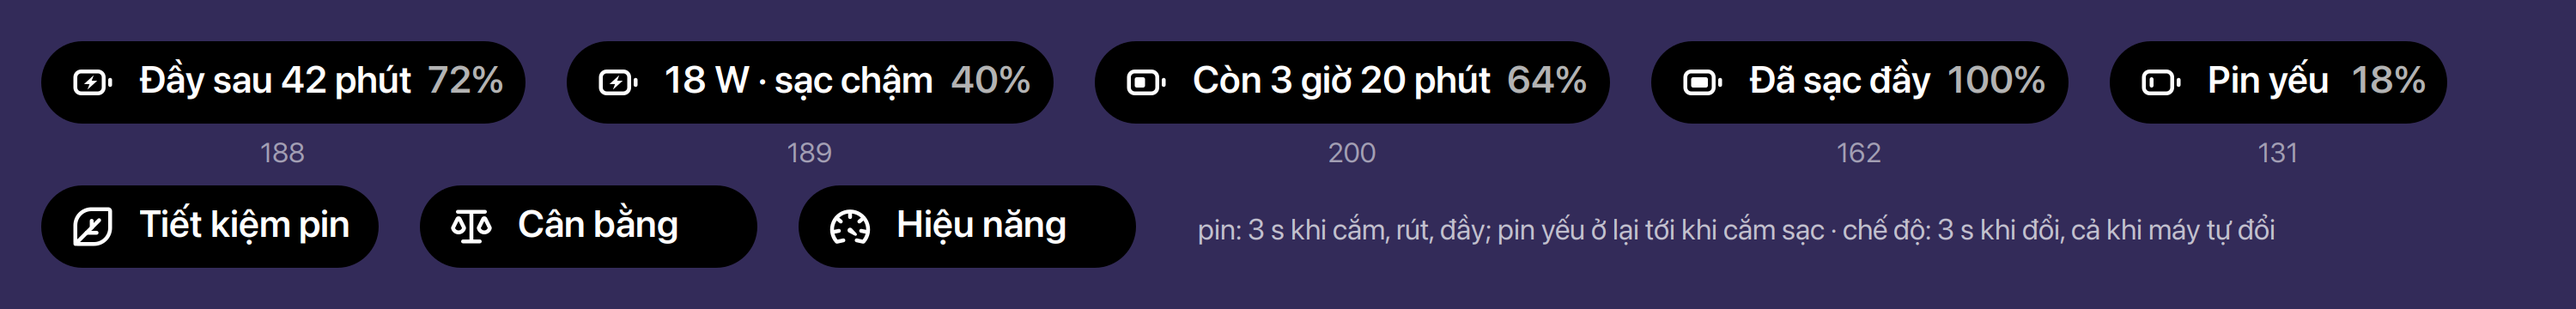
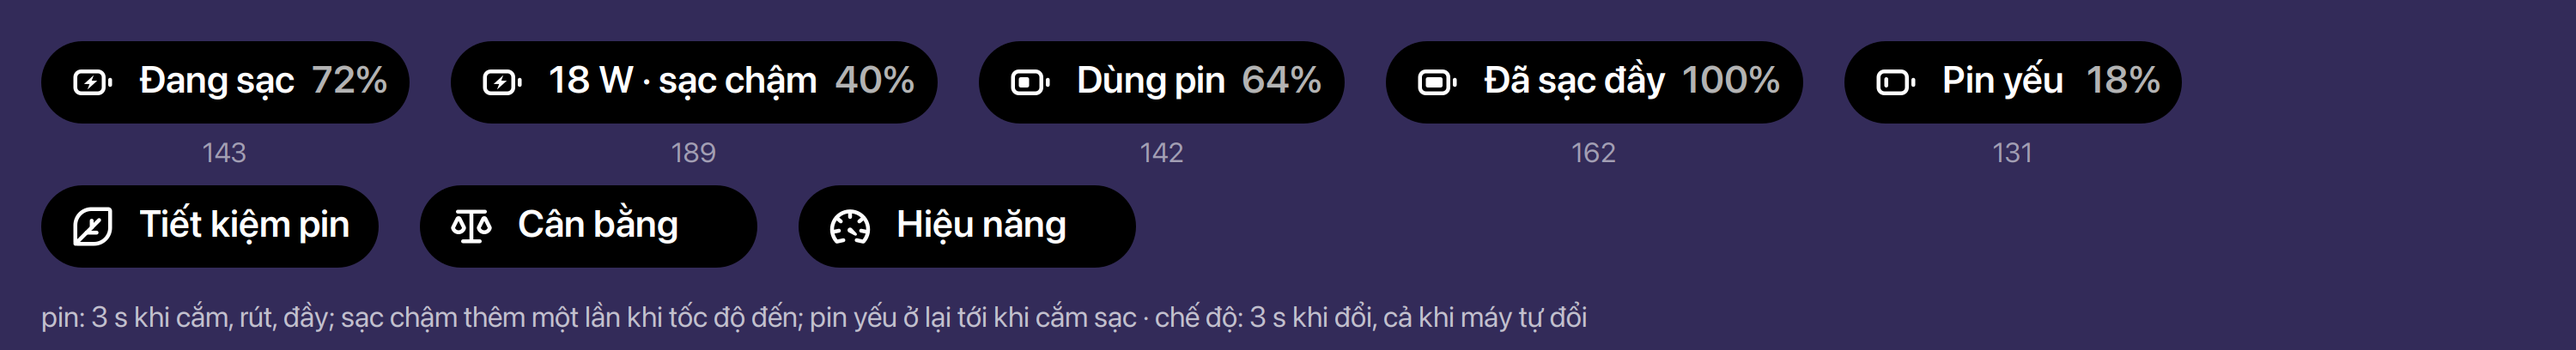
fix(power): a slow charger flashes when UPower's rate comes, not at the plug in (#270)
UPower has no rate, so no estimate, for 10–15 s after a plug in or unplug
(up-device-battery.c: a line-power change is a discontinuity, the rate held at 0
for 10 s, then polled every 5 s; batteries without a power reading need 15 s of
data). The 3 s flash was gone by then, so "Full in 42 min" and "18 W · slow
charger" never showed. Now the plug in says "Charging", the unplug "On battery",
and a slow charger flashes once more when its rate comes within 30 s
(adapter.js slowLate, SLOW_WINDOW). design/compact and FEATURES updated.

Tests: tests/power.test.js (slowLate window, once per plug in, fast/unknown/
above 80 %/not charging).

Refs: FEATURES.md M4 "Power"

diff --git a/src/buoy@murilegus/lib/modules/power/source.js b/src/buoy@murilegus/lib/modules/power/source.js
@@ -1,9 +1,10 @@
+import GLib from 'gi://GLib';
 import Shell from 'gi://Shell';
 import * as Main from 'resource:///org/gnome/shell/ui/main.js';
 
 import {Source} from '../../kit/services/source.js';
 import {batteryToggle, profilesOf, profilesToggle, setProfile, stopWaiting, takeSilent, whenQuickSettings} from '../../kit/services/power.js';
-import {STATE, powerEvents, readBattery} from './adapter.js';
+import {STATE, powerEvents, readBattery, slow, slowLate} from './adapter.js';
 
 const FLASH = 'flash';
 const LOW = 'low';
@@ -35,6 +36,8 @@ export class PowerSource extends Source {
         this._lowLevel = null;      // the low warning shown: 'low' | 'critical' | 'action'
         this._flash = null;         // the last flash: 'charging' | 'battery' | 'full'
         this._profile = undefined;  // the power mode last read (undefined: not read yet)
+        this._plugAt = null;        // when the plug in flashed (µs, monotonic): the slow charger's window
+        this._slowShown = false;    // this plug in's slow charger flashed
         whenQuickSettings(this, () => this._watch());
     }
 
@@ -47,7 +50,8 @@ export class PowerSource extends Source {
         this._toggle = this._proxy = this._modes = null;
         for (const key of [FLASH, LOW, MODE])
             this._stack?.end(this._id(key));
-        this._last = this._lowLevel = this._flash = null;
+        this._last = this._lowLevel = this._flash = this._plugAt = null;
+        this._slowShown = false;
         this._profile = undefined;
         super.disable();
     }
@@ -122,10 +126,21 @@ export class PowerSource extends Source {
         if (flash) {
             this._show(FLASH, {what: flash, ...cur}, {fresh: true});
             this._flash = flash;
+            this._plugAt = flash === 'charging' ? GLib.get_monotonic_time() : null;
+            this._slowShown = flash === 'charging' && slow(cur);    // the rate was there at once
+        } else if (slowLate(cur, this._sincePlug(), this._slowShown)) {
+            // the rate came 10–15 s after the plug in (adapter.js SLOW_WINDOW): the slow
+            // charger flashes once more, or the plug in's flash takes it if still up
+            this._show(FLASH, {what: 'charging', ...cur}, {fresh: !this._stack.has(this._id(FLASH))});
+            this._slowShown = true;
         } else if (this._flash && this._stack.has(this._id(FLASH)) && plugAgain(this._flash, cur)) {
             // the estimate and the rate come a few seconds after the plug: the flash takes them
             this._show(FLASH, {what: this._flash, ...cur});
         }
+    }
+
+    _sincePlug() {
+        return this._plugAt === null ? null : (GLib.get_monotonic_time() - this._plugAt) / 1000;
     }
 
     _id(key) {

diff --git a/src/buoy@murilegus/lib/modules/power/adapter.js b/src/buoy@murilegus/lib/modules/power/adapter.js
@@ -6,8 +6,9 @@ export {STATE, duration, plugged};
 /**
  * power adapter (FEATURES M4 "Power", SPEC §6b item 4; decided 2026-11-14, Ethan): the
  * laptop's battery as GNOME's Quick Settings reads it (UPower's DisplayDevice).
- *   charging  plugged in: 3 s — "Full in 42 min", or "18 W · slow charger"
- *   battery   unplugged: 3 s — "3 h 20 min left"
+ *   charging  plugged in: 3 s — "Charging"; "18 W · slow charger" once more when the rate comes
+ *             (slowLate)
+ *   battery   unplugged: 3 s — "On battery"
  *   full      fully charged while plugged in: 3 s
  *   low       UPower's warning level low / critical / action on battery: stays until plugged
  *             in; it takes the place of GNOME's own "Low Battery" notification
@@ -28,6 +29,16 @@ export const TTL = 3000;
 /** Slow: charging below SLOW_W watts while under SLOW_BELOW % (above it every laptop tapers). */
 export const SLOW_W = 20;
 export const SLOW_BELOW = 80;
+
+/**
+ * UPower has no rate, so no estimate, for 10–15 s after a plug in or unplug
+ * (up-device-battery.c up_device_battery_update_values: a line-power change is a
+ * discontinuity, the rate held at 0 for UP_DAEMON_DISTRUST_RATE_TIMEOUT 10 s, then polled every
+ * UP_DAEMON_ESTIMATE_TIMEOUT 5 s; batteries without a power reading need 15 s of data,
+ * up_device_battery_estimate_power). The 3 s flash is gone by then: a slow charger flashes once
+ * more when its rate comes, within SLOW_WINDOW of the plug in (Ethan, 2026-11-14).
+ */
+export const SLOW_WINDOW = 30000;
 
 // UPower's warning levels (up-types.h UpDeviceLevel); its states are kit/model/power.js STATE
 export const WARNING = Object.freeze({NONE: 1, DISCHARGING: 2, LOW: 3, CRITICAL: 4, ACTION: 5});
@@ -92,6 +103,18 @@ export function powerEvents(prev, cur) {
             flash = 'full';
     }
     return {flash, low};
+}
+
+/**
+ * The slow charger's own flash, when the rate comes after the plug in's (SLOW_WINDOW).
+ *
+ * @param {object} b  readBattery(), now
+ * @param {?number} sincePlug  ms since the plug in's flash; null when not plugged in by a flash
+ * @param {boolean} shown  this plug in's slow flash already shown
+ * @returns {boolean} flash "18 W · slow charger" now
+ */
+export function slowLate(b, sincePlug, shown) {
+    return !shown && sincePlug !== null && sincePlug >= 0 && sincePlug <= SLOW_WINDOW && slow(b);
 }
 
 /**

diff --git a/tests/power.test.js b/tests/power.test.js
@@ -1,6 +1,6 @@
 // Run: gjs -m tests/power.test.js   (pure: the power adapter, FEATURES M4 "Power")
 import adapter, {
-    TTL, SLOW_W, SLOW_BELOW, STATE, WARNING, readBattery, plugged, lowLevel, powerEvents, slow, duration,
+    TTL, SLOW_W, SLOW_BELOW, SLOW_WINDOW, STATE, WARNING, readBattery, plugged, lowLevel, powerEvents, slow, slowLate, duration,
 } from '../src/buoy@murilegus/lib/modules/power/adapter.js';
 import {PRIORITY, validate} from '../src/buoy@murilegus/lib/kit/model/activity.js';
 import {planCompact, planMinimal} from '../src/buoy@murilegus/lib/kit/model/presentation.js';
@@ -148,3 +148,16 @@ const plain = planCompact(validate({id: 'n', kind: 'notification', app: 'x', tex
 eq(['selected' in plain.actions[0], 'tight' in plain.card], [false, false], 'kit: other buttons get no `selected`, other cards are not tight');
 eq(planMinimal(validate({id: 'p', kind: 'power', app: 'system', ...adapter.power({what: 'battery', percentage: 64, timeToEmpty: 12000})})).trailing,
     {type: 'text', text: '64%'}, 'kit: the percentage is drawn as text (a bare string would be an icon\'s name)');
+
+// --- the slow charger's late flash (UPower's rate comes 10–15 s after the plug in) -------
+const SLOWB = B({state: STATE.CHARGING, percentage: 40, rate: 15});
+eq(SLOW_WINDOW, 30000, 'late slow: a window of 30 s after the plug in');
+eq([slowLate(SLOWB, 12000, false), slowLate(SLOWB, SLOW_WINDOW, false), slowLate(SLOWB, 0, false)], [true, true, true],
+    'late slow: the rate came within the window: flash');
+eq([slowLate(SLOWB, SLOW_WINDOW + 1, false), slowLate(SLOWB, null, false), slowLate(SLOWB, -5, false)], [false, false, false],
+    'late slow: past the window, no plug in flash, a clock gone back: no flash');
+eq(slowLate(SLOWB, 12000, true), false, 'late slow: once per plug in');
+eq([slowLate(B({state: STATE.CHARGING, percentage: 40, rate: 45}), 12000, false), slowLate(B({state: STATE.CHARGING, percentage: 40}), 12000, false),
+    slowLate(B({state: STATE.CHARGING, percentage: 85, rate: 15}), 12000, false), slowLate(B({state: STATE.FULL, percentage: 40, rate: 15}), 12000, false)],
+[false, false, false, false], 'late slow: a fast charger, no rate yet, above 80 %, not charging: no flash');
+eq(pill({what: 'charging', state: STATE.CHARGING, percentage: 72}).text, 'Charging', 'plug in: "Charging" while UPower has no estimate yet');

diff --git a/docs/design/home/render/power.js b/docs/design/home/render/power.js
@@ -14,7 +14,7 @@ import {SCALE as SC, C, icon as gicon} from '../../render/lib.js';
 
 const [out, MODE = 'tile'] = ARGV;
 const W1 = C.WHITE, SUB = 9.35, BIG = 16.5, TILE_H = 100;
-const SIZE = {tile: [1040, 140], list: [420, 300], flash: [1000, 120], compact: [700, 180], icons: [960, 104]}[MODE];
+const SIZE = {tile: [1040, 140], list: [420, 300], flash: [1000, 136], compact: [700, 180], icons: [960, 104]}[MODE];
 const [W, H] = SIZE;
 const surf = new cairo.ImageSurface(cairo.Format.ARGB32, W * SC, H * SC), cr = new cairo.Context(surf);
 cr.scale(SC, SC); cr.setSourceRGB(...C.WALL); cr.paint();
@@ -96,13 +96,13 @@ if (MODE === 'tile') {
     icon('arrow-up-right-from-square', AX + AW - 40, ay + 194, 16, W1, C.FG_SUBTLE);
     note('hàng 36 bo 18, cách 4; chọn xong vẫn ở danh sách, ‹ về Home', AX, ay + AH + 8);
 } else if (MODE === 'flash') {
-    const F = [['battery-charging', 'Đầy sau 42 phút', '72%'], ['battery-charging', '18 W · sạc chậm', '40%'],
-        ['battery', 'Còn 3 giờ 20 phút', '64%'], ['battery-full', 'Đã sạc đầy', '100%'], ['battery-low', 'Pin yếu', '18%']];
+    const F = [['battery-charging', 'Đang sạc', '72%'], ['battery-charging', '18 W · sạc chậm', '40%'],
+        ['battery', 'Dùng pin', '64%'], ['battery-full', 'Đã sạc đầy', '100%'], ['battery-low', 'Pin yếu', '18%']];
     let x = 16;
     F.forEach(([ic, t, p]) => { const w = pill(x, 16, ic, t, p); text(`${Math.round(w)}`, x + w / 2, 52, {sz: 8, a: .55, centre: true}); x += w + 16; });
     x = 16;
     ['saver', 'balanced', 'perf'].forEach(m => { const w = pill(x, 72, MODES[m], NAMES[m]); x += w + 16; });
-    note('pin: 3 s khi cắm, rút, đầy; pin yếu ở lại tới khi cắm sạc · chế độ: 3 s khi đổi, cả khi máy tự đổi', x + 8, 82);
+    note('pin: 3 s khi cắm, rút, đầy; sạc chậm thêm một lần khi tốc độ đến; pin yếu ở lại tới khi cắm sạc · chế độ: 3 s khi đổi, cả khi máy tự đổi', 16, 116);
 } else if (MODE === 'compact') {
     const CX = 16, cy = 16, kw = 404;
     fill([0, 0, 0, 1], CX, cy, kw, 104, 28);

diff --git a/docs/design/compact/index.vi.md b/docs/design/compact/index.vi.md
@@ -151,11 +151,14 @@ trắng như bản vẽ cũ.
 ![Flash pin và flash đổi chế độ, ở đúng độ rộng](images/power-flash.vi.png)
 
 - **Flash 3 s** ở pill, rộng theo nội dung (8 + 24 + 6 + chữ + 6 + trailing + 8, tối thiểu 131):
-  cắm sạc "Đầy sau 42 phút · 72%" (chưa có ước tính: "Đang sạc"); rút "Còn 3 giờ 20 phút · 64%"
-  (chưa có: "Dùng pin"); đầy khi đang cắm "Đã sạc đầy · 100%" (đầy ở ngưỡng sạc: số thật).
-  **Chốt**
-- **Sạc chậm**: đang sạc dưới 20 W khi pin dưới 80 % (trên 80 % máy tự giảm tốc): chữ thành
-  "18 W · sạc chậm", thời gian xuống compact. Không đọc được tốc độ (EnergyRate) thì thôi. **Chốt**
+  cắm sạc "Đang sạc · 72%"; rút "Dùng pin · 64%"; đầy khi đang cắm "Đã sạc đầy · 100%" (đầy ở
+  ngưỡng sạc: số thật). Không có thời gian: UPower chỉ có tốc độ, nên có ước tính, 10–15 s sau khi
+  cắm hay rút (`up-device-battery.c` up_device_battery_update_values: cắm/rút là một chỗ đứt, tốc độ
+  bị giữ ở 0 trong 10 s rồi đọc lại mỗi 5 s; pin không tự báo công suất cần 15 s số liệu), lúc đó
+  flash đã đi. Thời gian ở ô pin trong Home. **Chốt** (Ethan, 2026-11-14)
+- **Sạc chậm**: đang sạc dưới 20 W khi pin dưới 80 % (trên 80 % máy tự giảm tốc): khi tốc độ đến,
+  trong 30 s sau lúc cắm, **flash thêm một lần** "18 W · sạc chậm", thời gian xuống compact; mỗi lần
+  cắm một lần. Quá 30 s, hay không đọc được tốc độ (EnergyRate), thì thôi. **Chốt** (Ethan, 2026-11-14)
 - **Pin yếu** (UPower: 20 % low, 5 % critical): "Pin yếu · 18%" (critical: "Pin sắp hết") **ở lại tới
   khi cắm sạc**, mở compact của nó một lần (và lần nữa khi xuống critical); compact ghi "còn 25 phút"
   hoặc "Cắm sạc ngay". Nó **thay thông báo "Low Battery" của GNOME** (gsd, app "Power"): thông báo

diff --git a/docs/FEATURES.md b/docs/FEATURES.md
@@ -66,7 +66,7 @@ to their places there (2026-11-12, Ethan).
 | [ ] | Attention on another workspace | click switches workspace and focuses (Mutter `demands-attention`) |
 | [ ] | Headphones / display plugged | choose on the pill; replaces GNOME's jack dialog when on |
 | [x] | Buoy light, the rest | red's hover: the waiting ask's own card, answered there (design/pill); away (GNOME's session idle, after `idle-delay`) and DND count endings as missed (`stack.setAway()`; the lock screen disables Buoy), with the presence watch of "Notifications as alerts" (INDICATORS, design/alerts-and-asks) |
-| [x] | Power | as design/compact "Pin và chế độ năng lượng" and design/home "Ô pin và chế độ năng lượng" (2026-11-14, Ethan): 3 s flashes at plug in ("full in 42 min", "18 W · slow charger"), unplug and full; a low battery stays until plugged in, priority 70, in place of GNOME's notification; a power-mode flash with a three-button compact; the battery tile's mode and its mode list in Home; Buoy's own mode icons (design/icons) |
+| [x] | Power | as design/compact "Pin và chế độ năng lượng" and design/home "Ô pin và chế độ năng lượng" (2026-11-14, Ethan): 3 s flashes at plug in ("Charging"), unplug and full, and "18 W · slow charger" once more when UPower's rate comes within 30 s; a low battery stays until plugged in, priority 70, in place of GNOME's notification; a power-mode flash with a three-button compact; the battery tile's mode and its mode list in Home; Buoy's own mode icons (design/icons) |
 | [ ] | Bluetooth device | connected, with its battery |
 | [ ] | USB / phone / webcam plugged | mount with one-tap eject |
 | [~] | Privacy dot | as design/colours (mic purple, camera green, screen red) and design/compact (screen sharing and recording in the pill, with Stop); hides GNOME's indicators (`privacy-dot`); "in call" with auto-DND. Left: "in call" with auto-DND and Home's "in use by …" row, to be designed first |
